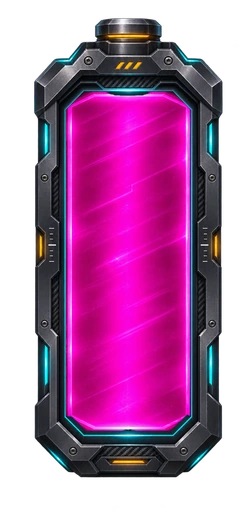
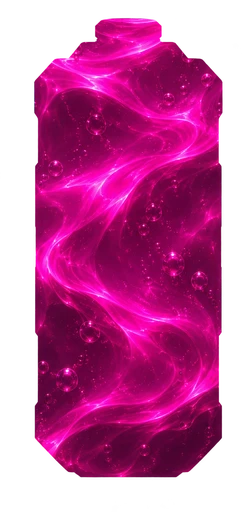
A-6: vida y energía con líquido viscoso (Pack 30 completo): textura que fluye, punta redondeada y batería rellena
Claude-Session: https://claude.ai/code/session_016LDX8vNq6QmcdLey8vJErm

diff --git a/public/batalla/autopista.html b/public/batalla/autopista.html
@@ -680,6 +680,18 @@ body[data-heroe=rohan]{--tinte:-150deg;--tsat:.9;--tluz:.95}  /* Moha: arena dor
 .bv.h.yo .mn{width:100px !important;height:3.8px !important;margin-top:2.1px !important}
 .bv.h .mn u{background:linear-gradient(180deg,#ffe0f8 0,#ff6fe0 30%,#e0189a 70%,#8a0a5e 100%) !important}
 .bv.h b{margin-bottom:5px !important}
+/* imágenes 2-4: líquido viscoso de verdad (textura que fluye despacio) y la punta redondeada donde se acaba */
+.bv.h i u,.bv.h .mn u{position:relative;overflow:visible;background:url(ui/ap_liq_verde.webp) 0 0/auto 100% repeat-x !important;box-shadow:none !important;animation:apLiq 7s linear infinite}
+.bv.h.e0:not(.yo) i u{background-image:url(ui/ap_liq_azul.webp) !important}
+.bv.h.e1 i u{background-image:url(ui/ap_liq_rojo.webp) !important}
+.bv.h .mn u{background-image:url(ui/ap_liq_fucsia.webp) !important;animation-duration:9s}
+@keyframes apLiq{to{background-position:-138px 0}}
+.bv.h i u::before{content:none !important}
+.bv.h i u::after,.bv.h .mn u::after{content:'';position:absolute;top:-6%;bottom:-6%;left:calc(100% - 2px);aspect-ratio:3/4;background:url(ui/ap_liq_punta_verde.webp) 0 0/100% 100% no-repeat}
+.bv.h.e0:not(.yo) i u::after{background-image:url(ui/ap_liq_punta_azul.webp)}
+.bv.h.e1 i u::after{background-image:url(ui/ap_liq_punta_rojo.webp)}
+.bv.h .mn u::after{background-image:url(ui/ap_liq_punta_fucsia.webp)}
+.bv.h .mn{overflow:visible !important}
 </style>
 <style>
 /* A-6 · MANDOS EN ARCO */

diff --git a/tools/autopista/procesa_pack30.py b/tools/autopista/procesa_pack30.py
@@ -30,3 +30,29 @@ for nombre, s in zip(['azul', 'rojo', 'yo'], placas):
     W, H = x1 - x0, y1 - y0
     med[nombre] = {'w': W, 'h': H, 'vent': [[v[2] / W * 100, v[0] / H * 100, v[3] / W * 100, v[1] / H * 100] for v in vent]}
 print(json.dumps(med, indent=1))
+
+# ---------- imágenes 2-4: líquidos viscosos (vida.png = tiras verde/azul/rojo, energia.png = fucsia horizontal y vertical, frentes.png = remates)
+from scipy import ndimage as nd
+def carga(n):
+    a = np.array(Image.open(R + n + '.png').convert('RGB')); m = (a[..., 0] > 150) & (a[..., 2] > 150) & (a[..., 1] < 130); return a, m
+a, m = carga('vida')
+for nombre, (y0, y1) in zip(['verde', 'azul', 'rojo'], [(162, 418), (514, 771), (868, 1124)]):
+    Image.fromarray(a[y0:y1]).resize((1024, 128), Image.LANCZOS).save(S + 'ap_liq_' + nombre + '.webp', quality=88)
+a, m = carga('energia')
+v = a[380:1228, 440:814]                                 # vertical sin la ola de arriba
+Image.fromarray(v).save(S + 'ap_liq_fucsia_v.webp', quality=88)
+Image.fromarray(np.rot90(v, 1).copy()).resize((1024, 128), Image.LANCZOS).save(S + 'ap_liq_fucsia.webp', quality=88)
+# remates: la punta redondeada de cada gota (lo de la derecha), con transparencia
+a, m = carga('frentes')
+for nombre, (y0, y1) in zip(['verde', 'azul', 'rojo', 'fucsia'], [(61, 250), (300, 490), (539, 728), (784, 971)]):
+    sub = ~m[y0:y1]; xs = np.where(sub.any(0))[0]; x1 = xs.max() + 2; h = y1 - y0; x0 = x1 - int(h * 0.75)
+    rgb = a[y0:y1, x0:x1]; al = np.where(sub[:, x0:x1], 255, 0).astype(np.uint8)
+    al = nd.uniform_filter(al.astype(float), 3).astype(np.uint8)
+    Image.fromarray(np.dstack([rgb, al]), 'RGBA').resize((96, 128), Image.LANCZOS).save(S + 'ap_liq_punta_' + nombre + '.webp', quality=90)
+# batería del HUD: el mismo hueco de la llena, relleno con el líquido vertical
+ll = np.array(Image.open(S + 'ap_mana_llena.webp').convert('RGBA')); al = ll[..., 3]
+ys, xs = np.where(al > 20); bx0, bx1, by0, by1 = xs.min(), xs.max() + 1, ys.min(), ys.max() + 1
+tex = np.array(Image.fromarray(v).resize((bx1 - bx0, by1 - by0), Image.LANCZOS))
+nuevo = ll.copy(); nuevo[by0:by1, bx0:bx1, :3] = tex
+Image.fromarray(nuevo, 'RGBA').save(S + 'ap_mana_llena.webp', quality=90)
+print('líquidos hechos')

diff --git a/tools/vado/hace_autopista.py b/tools/vado/hace_autopista.py
@@ -890,6 +890,18 @@ html = sub(html, '</head>', """<style>
 .bv.h.yo .mn{width:100px !important;height:3.8px !important;margin-top:2.1px !important}
 .bv.h .mn u{background:linear-gradient(180deg,#ffe0f8 0,#ff6fe0 30%,#e0189a 70%,#8a0a5e 100%) !important}
 .bv.h b{margin-bottom:5px !important}
+/* imágenes 2-4: líquido viscoso de verdad (textura que fluye despacio) y la punta redondeada donde se acaba */
+.bv.h i u,.bv.h .mn u{position:relative;overflow:visible;background:url(ui/ap_liq_verde.webp) 0 0/auto 100% repeat-x !important;box-shadow:none !important;animation:apLiq 7s linear infinite}
+.bv.h.e0:not(.yo) i u{background-image:url(ui/ap_liq_azul.webp) !important}
+.bv.h.e1 i u{background-image:url(ui/ap_liq_rojo.webp) !important}
+.bv.h .mn u{background-image:url(ui/ap_liq_fucsia.webp) !important;animation-duration:9s}
+@keyframes apLiq{to{background-position:-138px 0}}
+.bv.h i u::before{content:none !important}
+.bv.h i u::after,.bv.h .mn u::after{content:'';position:absolute;top:-6%;bottom:-6%;left:calc(100% - 2px);aspect-ratio:3/4;background:url(ui/ap_liq_punta_verde.webp) 0 0/100% 100% no-repeat}
+.bv.h.e0:not(.yo) i u::after{background-image:url(ui/ap_liq_punta_azul.webp)}
+.bv.h.e1 i u::after{background-image:url(ui/ap_liq_punta_rojo.webp)}
+.bv.h .mn u::after{background-image:url(ui/ap_liq_punta_fucsia.webp)}
+.bv.h .mn{overflow:visible !important}
 </style>
 </head>""", donde='html')
 

diff --git a/CLAUDE.md b/CLAUDE.md
@@ -274,5 +274,5 @@ Juego web privado para 9 amigos (Arturo, Porru, Adrián, Carlos, Fer, Edo, Rodri
 - A-6 EN EL SERVIDOR (17/11, Henar): A-6 ya puede calcular la partida en Cloudflare como La Brecha (⚙ → Partidas en línea, «Servidor» por defecto, `auto.srv`). `node tools/vado/hace_sim.mjs autopista` saca `sim_ap.js` de autopista.js; `worker.js` usa `creaSimAP` si el código de sala empieza por X (`e.ap`). OJO: VOLVER A GENERAR `sim_ap.js` (y `sim_vado.js`) antes de subir si se toca la simulación o se pasa el generador. Probado solo en Node (`/tmp/t_simap.mjs`: partida entre bots hasta el final, 0,12 ms por paso); sin probar en línea de verdad.
 - 17/11 (Henar): en A-6 el 2.º hechizo es Curar o IGNICIÓN (sustituye al Castigo, que en el Duelo no servía: no hay bestias): quema al héroe enemigo más cercano a 7 m durante 5 s, (80 + 45×nivel) en total, recarga 90 s (usa `quema` de la brasa del troll; icono provisional = el del castigo). UN SOLO BOTIQUÍN en mitad del puente (0,0), sale a 1:45 (antes 4). Ambos dentro de la simulación: `sim_ap.js` regenerado. Prueba: `/tmp/t_ign.mjs`.
 - EL BÁSICO PARA (17/11, Arturo; bloque «EL GOLPE BÁSICO TE PARA» del generador): como en el Wild Rift, al dar un golpe básico el héroe se queda quieto `min(0,3 s, 0,3/vatq)` aunque empujes el joystick. En la simulación `h.paraT` (tú contra la máquina, bots, servidor); en línea, tu móvil para con el golpe que predice (`MIO.para`, marca `predT`). Prueba en Node: `/tmp/t_para.mjs`.
-- PACK 30 ART imagen 1 (17/11, `tools/autopista/pack30`, `python3 -I tools/autopista/procesa_pack30.py`): placa por héroe (`ui/ap_placa_{azul,rojo,yo}.webp`) con la vida y la energía DENTRO (ventanas medidas: vida x 10,67-89,33 % y 17,6-59,9 %, energía y 70-88,8 %); bloque «PACK 30 ART» del generador: `i` = ventana de vida, placa en `i::before` con márgenes negativos, `.mn` debajo con el hueco medido. Líquido de momento con degradado + reflejo que pasa; FALTAN las imágenes 2-4 (líquidos viscosos y frentes) para cambiarlo por textura. Prueba: `tools/pruebas/t_barras.py HEROE`.
+- PACK 30 ART imagen 1 (17/11, `tools/autopista/pack30`, `python3 -I tools/autopista/procesa_pack30.py`): placa por héroe (`ui/ap_placa_{azul,rojo,yo}.webp`) con la vida y la energía DENTRO (ventanas medidas: vida x 10,67-89,33 % y 17,6-59,9 %, energía y 70-88,8 %); bloque «PACK 30 ART» del generador: `i` = ventana de vida, placa en `i::before` con márgenes negativos, `.mn` debajo con el hueco medido. Imágenes 2-4 (mismo script): líquidos viscosos `ui/ap_liq_{verde,azul,rojo,fucsia}.webp` (tiras 1024x128 que fluyen con `apLiq`), punta redondeada al final de cada barra (`ap_liq_punta_*`, en `u::after`) y la batería del HUD rellena con el líquido vertical (`ap_liq_fucsia_v` dentro del hueco de `ap_mana_llena`). Prueba: `tools/pruebas/t_barras.py HEROE`.
 - Ignición: icono propio pendiente (Pack Autopista 29 ART).

diff --git a/docs/pendiente-chatgpt.md b/docs/pendiente-chatgpt.md
@@ -75,4 +75,4 @@ ART = chat normal de ChatGPT (no gasta tokens). WORK = modo agente (gasta tokens
 - [x] (METIDO 17/11) Pack Autopista 28 ART (17/11): medallones del menú de A-6 — partida guiada (aro verde) y crear sala (aro dorado), 512x512, sin texto. Prompt en `docs/prompts-autopista.md`. Al llegar: `ui/ap_guia.webp` y el icono de `#bCrear` (hoy es el retrato de Moha).
 - [x] (HECHO 17/11, `tools/autopista/pack29`) Pack Autopista 29 ART (17/11): icono del hechizo Ignición de A-6, 512x512 sobre magenta, mismo estilo que Destello/Curar. Al llegar: `ui/ap_hz_castigo.webp` (sustituye al rayo rojo del Castigo).
 
-- [ ] (IMAGEN 1, placas, METIDA 17/11; FALTAN las imágenes 2, 3 y 4: líquidos y frentes) Pack Autopista 30 ART (17/11, Henar: «rehacer la vida y el maná, que se vean como líquidos viscosos, nada de líquido plano»): placas con vida + energía DENTRO (azul/roja/dorada), líquidos viscosos sin costura (verde, azul, rojo, fucsia horizontal y vertical) y frentes del líquido. Prompt en `docs/prompts-autopista.md`. Al llegar: nueva barra sobre la cabeza (placa con 2 ventanas, líquido que se desplaza despacio con `background-position`, frente al final que se mueve con la vida) y batería del HUD con el líquido vertical.
+- [x] (HECHO 17/11, `tools/autopista/pack30`) Pack Autopista 30 ART (17/11, Henar: «rehacer la vida y el maná, que se vean como líquidos viscosos, nada de líquido plano»): placas con vida + energía DENTRO (azul/roja/dorada), líquidos viscosos sin costura (verde, azul, rojo, fucsia horizontal y vertical) y frentes del líquido. Prompt en `docs/prompts-autopista.md`. Al llegar: nueva barra sobre la cabeza (placa con 2 ventanas, líquido que se desplaza despacio con `background-position`, frente al final que se mueve con la vida) y batería del HUD con el líquido vertical.
